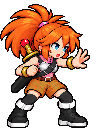
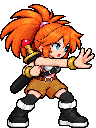
art(player): cast with compact right-hand pose

diff --git a/tools/art/build_player_combat_revision.py b/tools/art/build_player_combat_revision.py
@@ -19,7 +19,7 @@ SPECS = {
     'attack_1': ('2026-10-29_aclaire_attack_1_clean_source.png', 2, 4, .252, 192),
     'attack_2': ('2026-10-29_aclaire_attack_2_production_source.png', 2, 4, .248, 192),
     'attack_3': ('2026-10-29_aclaire_attack_3_production_source.png', 3, 5, .252, 192),
-    'cast': ('2026-10-29_aclaire_cast_compact_source.png', 2, 4, .252, 96),
+    'cast': ('2026-10-29_aclaire_cast_right_hand_source.png', 2, 4, .252, 96),
     'hurt': ('2026-10-28_aclaire_hurt_proportions_v2_review.png', 3, 3, 124/741, 96),
     'dead': ('2026-10-29_aclaire_dead_proportions_v3_review.png', 3, 6, 124/474, 96),
 }

diff --git a/art/reports/phase_b.md b/art/reports/phase_b.md
@@ -266,3 +266,7 @@ Built-in imagegen only. All source PNGs are versioned in `art/concept/` with the
 - Cast: four frames in a 2×2 sheet; hand already forward on frame 1, slight push/hold/recovery, slightly open mouth and wide stance. Compact edit foreshortens the extended arm and modestly narrows stance without changing head/body size to fit the standard frame.
 - Run: remove only background and text from the approved five-pose comparison, retaining the four running poses and open-mouth expressions; transparent output.
 - All generated strips: same right-facing Aclaire, orange ponytail, pink armor, brown shorts, black boots, crisp pixel clusters, no captions or effects, genuine transparency. Hurt and Dead use their approved source sheets without another redraw.
+
+### Cast right-hand follow-up — 29 October 2026
+
+At Pinz's request, all four Cast frames now use the anatomical right (near-side) arm extending across the chest, with the other fist held close to the torso. The pose remains compact inside 96×128, with the hand forward from frame 1. Head/body scale and animation timing are unchanged. Source: `art/concept/2026-10-29_aclaire_cast_right_hand_source.png`; built-in imagegen prompt: switch casting to the near-side right arm, keep a natural compact forward palm, preserve the head/body/legs, four-frame layout and transparency. A second targeted pass corrected the last frame to use the same arm. Validator and both current atlas tests pass after rebuilding. Only the four Cast production frames and their packed pixels changed.
